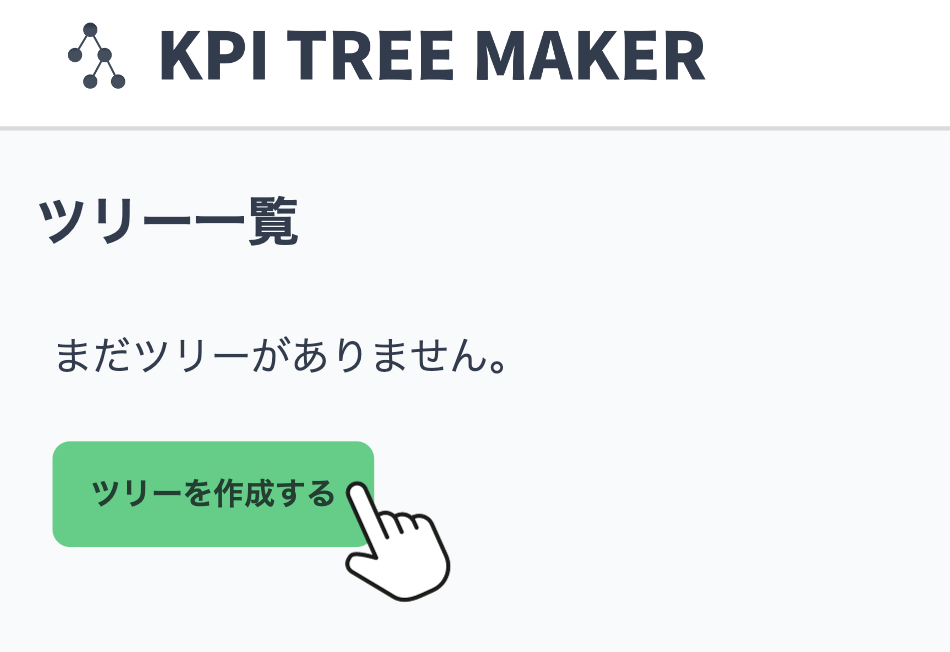
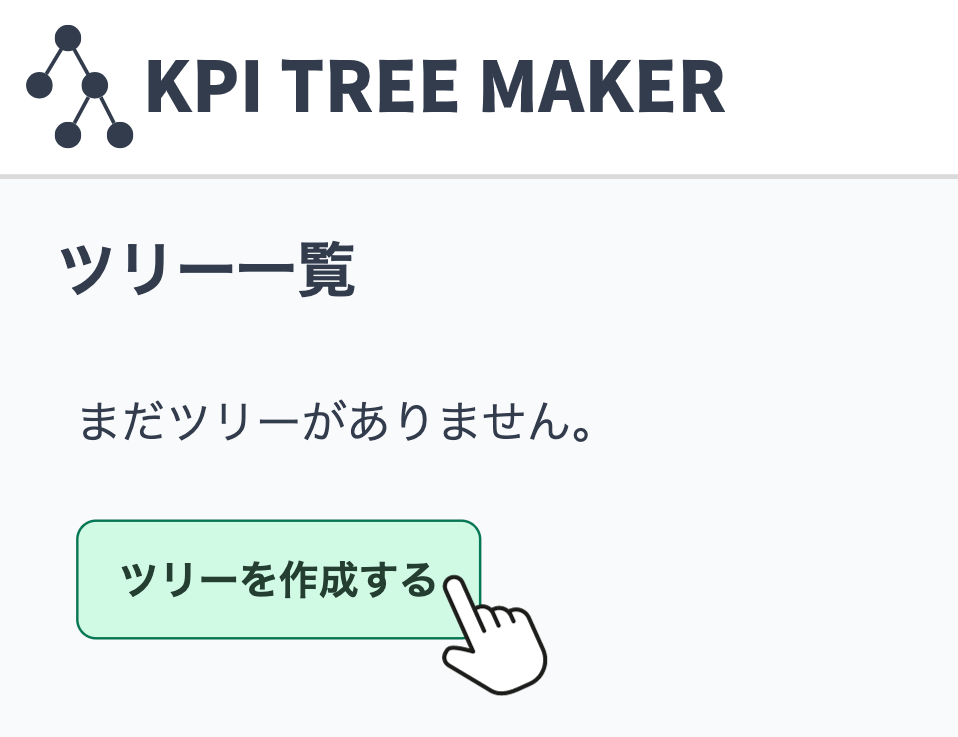
READMEの画像を差し替え、railsバージョンを7系→7.0に表記変更 (#314)

diff --git a/README.md b/README.md
@@ -38,7 +38,7 @@ https://kpi-tree.com/
 
 ### フレームワーク
 
-- Ruby on Rails 7 系
+- Ruby on Rails 7.0
 - React
 - Tailwind CSS
 - daisyUI
